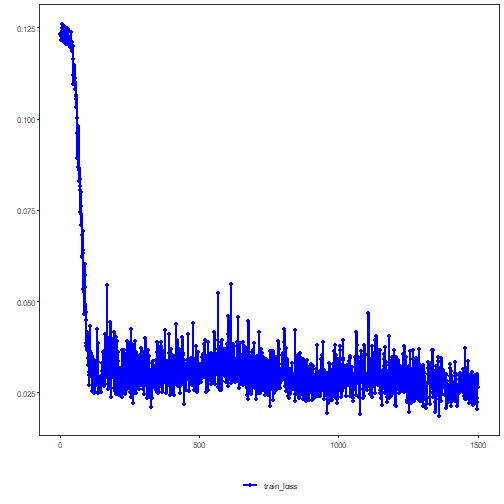
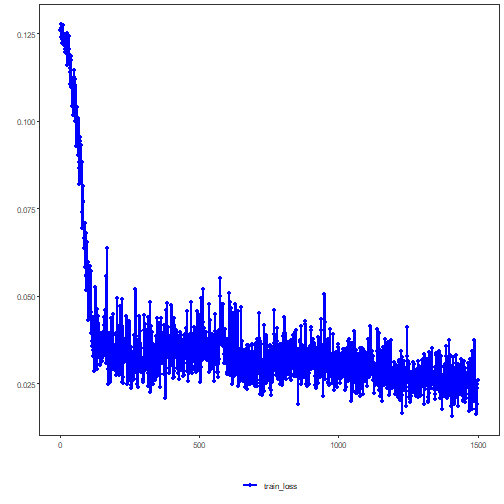
Regenerate example outputs with local package install

diff --git a/examples/regression/torch_reg_mlp.md b/examples/regression/torch_reg_mlp.md
@@ -28,10 +28,10 @@ print(t(sapply(Boston, class)))
 ```
 
 ```
-##      crim      zn        indus     chas      nox       rm        age      
-## [1,] "numeric" "numeric" "numeric" "integer" "numeric" "numeric" "numeric"
-##      dis       rad       tax       ptratio   black     lstat     medv     
-## [1,] "numeric" "integer" "numeric" "numeric" "numeric" "numeric" "numeric"
+##      crim      zn        indus     chas      nox       rm        age       dis       rad       tax       ptratio   black     lstat    
+## [1,] "numeric" "numeric" "numeric" "integer" "numeric" "numeric" "numeric" "numeric" "integer" "numeric" "numeric" "numeric" "numeric"
+##      medv     
+## [1,] "numeric"
 ```
 
 ``` r
@@ -39,20 +39,13 @@ head(Boston)
 ```
 
 ```
-##      crim zn indus chas   nox    rm  age    dis rad tax ptratio  black lstat
-## 1 0.00632 18  2.31    0 0.538 6.575 65.2 4.0900   1 296    15.3 396.90  4.98
-## 2 0.02731  0  7.07    0 0.469 6.421 78.9 4.9671   2 242    17.8 396.90  9.14
-## 3 0.02729  0  7.07    0 0.469 7.185 61.1 4.9671   2 242    17.8 392.83  4.03
-## 4 0.03237  0  2.18    0 0.458 6.998 45.8 6.0622   3 222    18.7 394.63  2.94
-## 5 0.06905  0  2.18    0 0.458 7.147 54.2 6.0622   3 222    18.7 396.90  5.33
-## 6 0.02985  0  2.18    0 0.458 6.430 58.7 6.0622   3 222    18.7 394.12  5.21
-##   medv
-## 1 24.0
-## 2 21.6
-## 3 34.7
-## 4 33.4
-## 5 36.2
-## 6 28.7
+##      crim zn indus chas   nox    rm  age    dis rad tax ptratio  black lstat medv
+## 1 0.00632 18  2.31    0 0.538 6.575 65.2 4.0900   1 296    15.3 396.90  4.98 24.0
+## 2 0.02731  0  7.07    0 0.469 6.421 78.9 4.9671   2 242    17.8 396.90  9.14 21.6
+## 3 0.02729  0  7.07    0 0.469 7.185 61.1 4.9671   2 242    17.8 392.83  4.03 34.7
+## 4 0.03237  0  2.18    0 0.458 6.998 45.8 6.0622   3 222    18.7 394.63  2.94 33.4
+## 5 0.06905  0  2.18    0 0.458 7.147 54.2 6.0622   3 222    18.7 396.90  5.33 36.2
+## 6 0.02985  0  2.18    0 0.458 6.430 58.7 6.0622   3 222    18.7 394.12  5.21 28.7
 ```
 
 Optional conversion to matrix.

diff --git a/examples/timeseries/ts_encode-decode.md b/examples/timeseries/ts_encode-decode.md
@@ -86,12 +86,12 @@ print(head(result))
 
 ```
 ##           [,1]      [,2]      [,3]      [,4]      [,5]
-## [1,] 0.1455790 0.2067537 0.4837324 0.6124044 0.7918054
-## [2,] 0.3384697 0.4648486 0.6651324 0.7562432 0.8588997
-## [3,] 0.5833995 0.7368667 0.8558433 0.8936231 0.9140979
-## [4,] 0.7488400 0.8771041 0.9530746 0.9735966 0.9108620
-## [5,] 0.8628445 0.9601920 0.9939444 0.9894448 0.8668625
-## [6,] 0.9204873 0.9940798 0.9889307 0.9411432 0.7737913
+## [1,] 0.1384313 0.3237551 0.4794721 0.6801789 0.7484931
+## [2,] 0.3034692 0.4771605 0.6257209 0.7744519 0.8076903
+## [3,] 0.5118471 0.6820119 0.7969884 0.8779535 0.8496023
+## [4,] 0.7327246 0.8457048 0.9112816 0.9331555 0.8571754
+## [5,] 0.8900059 0.9518926 0.9748541 0.9433414 0.8289360
+## [6,] 0.9615482 0.9855673 0.9794773 0.9074199 0.7692553
 ```
 
 Reconstruction of the test set
@@ -116,12 +116,12 @@ print(head(result))
 ```
 
 ```
-##           [,1]      [,2]        [,3]        [,4]       [,5]
-## [1,] 0.8460430 0.9050675  0.85460198  0.71379501  0.5285703
-## [2,] 0.7001781 0.7762555  0.69310826  0.50113076  0.3379453
-## [3,] 0.4788791 0.5316512  0.34382355  0.09020224 -0.1226123
-## [4,] 0.3287404 0.3152311  0.06244178 -0.12724948 -0.2817023
-## [5,] 0.1952923 0.1342442 -0.15960519 -0.28317776 -0.4198894
+##            [,1]       [,2]       [,3]         [,4]        [,5]
+## [1,]  0.8761966  0.8741961  0.8401079  0.731237173  0.58056289
+## [2,]  0.7279449  0.7153549  0.7020346  0.582779765  0.46690461
+## [3,]  0.4548819  0.3829153  0.4258522  0.242995963  0.18158679
+## [4,]  0.1482204  0.1077424  0.1499725 -0.009470092  0.04106381
+## [5,] -0.1902543 -0.1459606 -0.2178537 -0.382163733 -0.23149623
 ```
 
 References

diff --git a/examples/classification/torch_cla_mlp.md b/examples/classification/torch_cla_mlp.md
@@ -54,7 +54,7 @@ print(train_eval$metrics)
 
 ```
 ##    accuracy TP TN FP FN precision recall sensitivity specificity f1
-## 1 0.6833333 39 81  0  0         1      1           1           1  1
+## 1 0.9666667 39 81  0  0         1      1           1           1  1
 ```
 
 Constructor configuration
@@ -75,7 +75,7 @@ print(test_eval$metrics)
 
 ```
 ##    accuracy TP TN FP FN precision recall sensitivity specificity f1
-## 1 0.6666667 11 19  0  0         1      1           1           1  1
+## 1 0.9666667 11 19  0  0         1      1           1           1  1
 ```
 
 
@@ -106,22 +106,22 @@ head(probabilities)
 
 ```
 ## [[1]]
-## [1] 0.5460345 0.2454081 0.2085574
+## [1] 0.906842649 0.084879734 0.008277592
 ## 
 ## [[2]]
-## [1] 0.5460345 0.2454081 0.2085574
+## [1] 0.942767680 0.053357624 0.003874781
 ## 
 ## [[3]]
-## [1] 0.5460345 0.2454081 0.2085574
+## [1] 0.933061779 0.062121402 0.004816834
 ## 
 ## [[4]]
-## [1] 0.5460345 0.2454081 0.2085574
+## [1] 0.904949248 0.086110093 0.008940582
 ## 
 ## [[5]]
-## [1] 0.5460345 0.2454081 0.2085574
+## [1] 0.951331794 0.045821328 0.002846869
 ## 
 ## [[6]]
-## [1] 0.5460345 0.2454081 0.2085574
+## [1] 0.955557585 0.042090207 0.002352145
 ```
 
 Notes

diff --git a/examples/autoencoder/autoenc_adv_e.md b/examples/autoencoder/autoenc_adv_e.md
@@ -158,13 +158,13 @@ print(head(result))
 ```
 
 ```
-##           [,1]       [,2]      [,3]
-## [1,] -3.841862  0.7064722 -7.463382
-## [2,] -4.124436  0.8869300 -8.023645
-## [3,] -4.260654  0.8834394 -8.323955
-## [4,] -4.228056  0.6730311 -8.366544
-## [5,] -4.024314  0.2777735 -8.129371
-## [6,] -3.616474 -0.3557326 -7.588241
+##           [,1]     [,2]     [,3]
+## [1,] -6.269185 6.592249 2.091887
+## [2,] -6.480721 7.650024 1.849483
+## [3,] -6.368447 8.275709 1.743217
+## [4,] -5.927461 8.398799 1.802430
+## [5,] -5.150836 7.985156 2.011014
+## [6,] -4.159431 7.105412 2.328066
 ```
 
 References

diff --git a/examples/timeseries/ts_conv1d.md b/examples/timeseries/ts_conv1d.md
@@ -38,14 +38,10 @@ ts_head(ts, 3)
 ```
 
 ```
-##             t9        t8        t7        t6        t5        t4        t3
-## [1,] 0.0000000 0.2474040 0.4794255 0.6816388 0.8414710 0.9489846 0.9974950
-## [2,] 0.2474040 0.4794255 0.6816388 0.8414710 0.9489846 0.9974950 0.9839859
-## [3,] 0.4794255 0.6816388 0.8414710 0.9489846 0.9974950 0.9839859 0.9092974
-##             t2        t1        t0
-## [1,] 0.9839859 0.9092974 0.7780732
-## [2,] 0.9092974 0.7780732 0.5984721
-## [3,] 0.7780732 0.5984721 0.3816610
+##             t9        t8        t7        t6        t5        t4        t3        t2        t1        t0
+## [1,] 0.0000000 0.2474040 0.4794255 0.6816388 0.8414710 0.9489846 0.9974950 0.9839859 0.9092974 0.7780732
+## [2,] 0.2474040 0.4794255 0.6816388 0.8414710 0.9489846 0.9974950 0.9839859 0.9092974 0.7780732 0.5984721
+## [3,] 0.4794255 0.6816388 0.8414710 0.9489846 0.9974950 0.9839859 0.9092974 0.7780732 0.5984721 0.3816610
 ```
 
 Before moving on, we visualize the series so the effect of the next transformation can be compared against the original signal.

diff --git a/examples/timeseries/ts_lstm.md b/examples/timeseries/ts_lstm.md
@@ -38,14 +38,10 @@ ts_head(ts, 3)
 ```
 
 ```
-##             t9        t8        t7        t6        t5        t4        t3
-## [1,] 0.0000000 0.2474040 0.4794255 0.6816388 0.8414710 0.9489846 0.9974950
-## [2,] 0.2474040 0.4794255 0.6816388 0.8414710 0.9489846 0.9974950 0.9839859
-## [3,] 0.4794255 0.6816388 0.8414710 0.9489846 0.9974950 0.9839859 0.9092974
-##             t2        t1        t0
-## [1,] 0.9839859 0.9092974 0.7780732
-## [2,] 0.9092974 0.7780732 0.5984721
-## [3,] 0.7780732 0.5984721 0.3816610
+##             t9        t8        t7        t6        t5        t4        t3        t2        t1        t0
+## [1,] 0.0000000 0.2474040 0.4794255 0.6816388 0.8414710 0.9489846 0.9974950 0.9839859 0.9092974 0.7780732
+## [2,] 0.2474040 0.4794255 0.6816388 0.8414710 0.9489846 0.9974950 0.9839859 0.9092974 0.7780732 0.5984721
+## [3,] 0.4794255 0.6816388 0.8414710 0.9489846 0.9974950 0.9839859 0.9092974 0.7780732 0.5984721 0.3816610
 ```
 
 Before moving on, we visualize the series so the effect of the next transformation can be compared against the original signal.